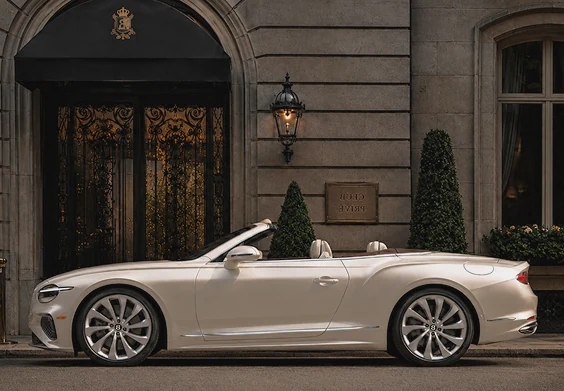
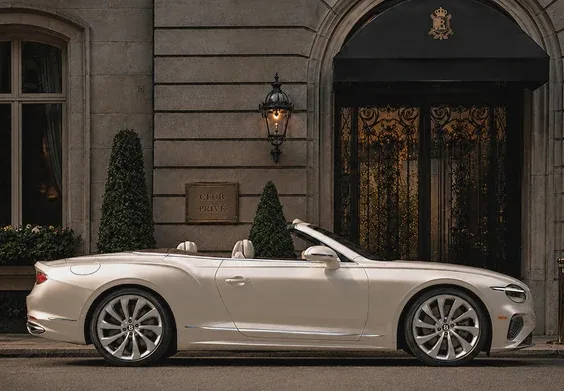
Главная, «Найдите свой формат»: свои картинки вместо adaptive-нарезки
- Убрана папка public/images/typeofcar/adaptive и 4-источниковый <picture>
  (у второго агента для coupe/minivan/crossover был один файл на все брейки).
- Ракурсы приведены к макету (зеркалирование по горизонтали, object-position
  центр — кадрирование не меняется): купе/кроссовер/кабриолет отражены.
- Седан: отражён оригинал в высоком разрешении (1800px), нос влево — как в макете.
- Внедорожник: анфас (портрет) на десктопе >=961, боковой профиль off-road-side.webp
  на <=960 (через <source media="(max-width:960px)">).
- Сверено по Figma на 1536/1200/960/768/640/480/390.

diff --git a/components/home/BodyTypes.tsx b/components/home/BodyTypes.tsx
@@ -7,10 +7,9 @@ type BodyType = {
   title: string;
   subtitle: string;
   image: string;
-  largeImage: string;
-  desktopImage: string;
-  tabletImage: string;
-  mobileImage: string;
+  /** Необязательный вариант картинки для узких экранов (≤960): в макете часть
+   *  карточек меняет ракурс (напр. внедорожник: анфас на десктопе → боком на планшете). */
+  narrowImage?: string;
   href: string;
   className?: string;
 };
@@ -20,10 +19,6 @@ const grid: BodyType[] = [
     title: "Купе",
     subtitle: "Динамичный дизайн и яркие эмоции от каждой поездки",
     image: "/images/typeofcar/coupe.webp",
-    largeImage: "/images/typeofcar/adaptive/coupe.webp",
-    desktopImage: "/images/typeofcar/adaptive/coupe.webp",
-    tabletImage: "/images/typeofcar/adaptive/coupe.webp",
-    mobileImage: "/images/typeofcar/adaptive/coupe.webp",
     href: "/coupe",
     className: "bento__a",
   },
@@ -31,10 +26,6 @@ const grid: BodyType[] = [
     title: "Кабриолеты",
     subtitle: "Открытая дорога, лёгкость и максимум впечатлений",
     image: "/images/typeofcar/cabriolet.webp",
-    largeImage: "/images/typeofcar/adaptive/cabriolet-1536.webp",
-    desktopImage: "/images/typeofcar/adaptive/cabriolet-1200.webp",
-    tabletImage: "/images/typeofcar/adaptive/cabriolet-tablet.webp",
-    mobileImage: "/images/typeofcar/adaptive/cabriolet-1536.webp",
     href: "/cabriolet",
     className: "bento__b",
   },
@@ -42,10 +33,7 @@ const grid: BodyType[] = [
     title: "Внедорожники",
     subtitle: "Уверенность, комфорт и свобода на любых маршрутах",
     image: "/images/typeofcar/off-road.webp",
-    largeImage: "/images/typeofcar/adaptive/off-road-1536.webp",
-    desktopImage: "/images/typeofcar/adaptive/off-road-1200.webp",
-    tabletImage: "/images/typeofcar/adaptive/off-road-tablet.webp",
-    mobileImage: "/images/typeofcar/adaptive/off-road-tablet.webp",
+    narrowImage: "/images/typeofcar/off-road-side.webp",
     href: "/off-road",
     className: "bento__c",
   },
@@ -53,10 +41,6 @@ const grid: BodyType[] = [
     title: "Минивэны",
     subtitle: "Простор для семьи, бизнеса и дальних путешествий",
     image: "/images/typeofcar/minivan.webp",
-    largeImage: "/images/typeofcar/adaptive/minivan.webp",
-    desktopImage: "/images/typeofcar/adaptive/minivan.webp",
-    tabletImage: "/images/typeofcar/adaptive/minivan.webp",
-    mobileImage: "/images/typeofcar/adaptive/minivan.webp",
     href: "/minivan",
     className: "bento__d",
   },
@@ -64,10 +48,6 @@ const grid: BodyType[] = [
     title: "Кроссоверы",
     subtitle: "Универсальность для города и активного образа жизни",
     image: "/images/typeofcar/crossover.webp",
-    largeImage: "/images/typeofcar/adaptive/crossover.webp",
-    desktopImage: "/images/typeofcar/adaptive/crossover.webp",
-    tabletImage: "/images/typeofcar/adaptive/crossover.webp",
-    mobileImage: "/images/typeofcar/adaptive/crossover.webp",
     href: "/crossover",
     className: "bento__e",
   },
@@ -77,10 +57,6 @@ const sedan: BodyType = {
   title: "Седаны",
   subtitle: "Элегантность, комфорт и безупречный стиль на каждый день",
   image: "/images/typeofcar/sedan.webp",
-  largeImage: "/images/typeofcar/adaptive/sedan-desktop.webp",
-  desktopImage: "/images/typeofcar/adaptive/sedan-desktop.webp",
-  tabletImage: "/images/typeofcar/adaptive/sedan-tablet.webp",
-  mobileImage: "/images/typeofcar/adaptive/sedan-tablet.webp",
   href: "/sedan",
   className: "body-type-card--wide",
 };
@@ -89,29 +65,16 @@ function BodyTypeCard({
   title,
   subtitle,
   image,
-  largeImage,
-  desktopImage,
-  tabletImage,
-  mobileImage,
+  narrowImage,
   href,
   className,
 }: BodyType) {
   return (
     <ButtonLink href={href} bare className={cn("body-type-card", className)}>
       <picture>
-        <source media="(max-width: 640px)" srcSet={mobileImage} />
-        <source
-          media="(min-width: 1367px) and (max-width: 1536px)"
-          srcSet={largeImage}
-        />
-        <source
-          media="(min-width: 961px) and (max-width: 1366px)"
-          srcSet={desktopImage}
-        />
-        <source
-          media="(min-width: 641px) and (max-width: 960px)"
-          srcSet={tabletImage}
-        />
+        {narrowImage ? (
+          <source media="(max-width: 960px)" srcSet={narrowImage} />
+        ) : null}
         {/* eslint-disable-next-line @next/next/no-img-element */}
         <img className="body-type-card__img" src={image} alt={title} />
       </picture>
